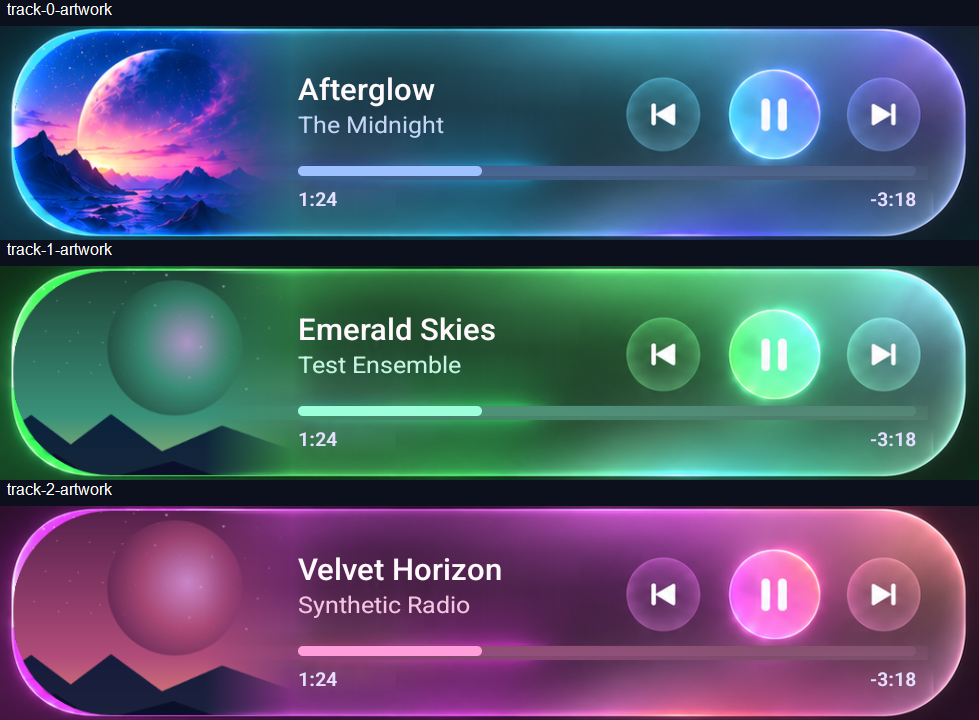
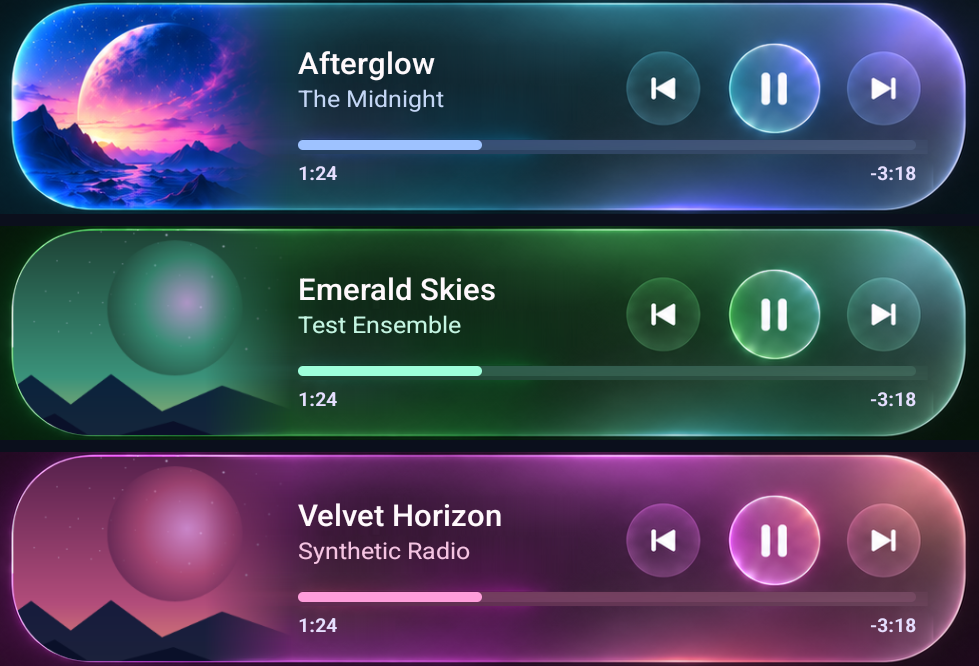
Fill artwork to the glass rim and refresh verified README captures

diff --git a/MediaWidget/app/src/main/java/io/github/mutebutton/musicwidget/V5Artwork.kt b/MediaWidget/app/src/main/java/io/github/mutebutton/musicwidget/V5Artwork.kt
@@ -239,7 +239,9 @@ internal object V5Artwork {
             })
         }
         val paint=Paint(Paint.ANTI_ALIAS_FLAG or Paint.FILTER_BITMAP_FLAG).apply { this.shader=shader }
-        canvas.clipPath(Path().apply { addRoundRect(RectF(14f,5f,1015f,220f),102f,102f,Path.Direction.CW) })
+        // The raster rim has 80px corners, not a capsule's half-height radius.
+        // Keep only the thin rim inset; a larger radius exposes a crescent of glass.
+        canvas.clipPath(Path().apply { addRoundRect(RectF(14f,5f,1015f,220f),80f,80f,Path.Direction.CW) })
         canvas.drawRect(0f,0f,307f,225f,paint)
         paint.shader=LinearGradient(215f,0f,307f,0f,Color.WHITE,Color.TRANSPARENT,Shader.TileMode.CLAMP)
         paint.xfermode=PorterDuffXfermode(PorterDuff.Mode.DST_IN)

diff --git a/MediaWidget/tools/ARTWORK_RIM_ACCEPTANCE.md b/MediaWidget/tools/ARTWORK_RIM_ACCEPTANCE.md
@@ -1,0 +1,26 @@
+# Artwork reaches the rim
+
+Verified October 24, 2026 on the API 36.1 emulator. The artwork mask previously used a 102px corner radius inside a raster rim with tighter corners, exposing crescent-shaped areas of glass above and below the cover. The live artwork now uses an 80px radius with the existing thin rim inset. Image cropping, right-side fade, palette selection, controls and layout are unchanged. The same correction applies to the missing-cover placeholder.
+
+## Visual evidence
+
+`Capture-ArtworkShowcase.ps1` captures the actual signed app using the separate test player, fixed playback position and Artwork glass mode. It crops the widget from each screenshot and stacks the three unretouched crops. No artwork or rim is painted into the screenshot. The resulting image replaces `docs/images/artwork-glass-showcase.png`, already referenced by the README.
+
+The blue, green and pink captures were visually reviewed before and after. Artwork now fills both left corners up to the thin rim; the inset crescent is gone. At 979x214 per card, approximately 2,180 pixels change in the left corner regions. Outside those regions the blue card is identical; the green/pink cards have respectively 15/12 changed pixels with at most one RGB level of difference from emulator rendering.
+
+Evidence remains local under `artifacts/rim-fix/`: `before/`, `after/`, `pixel-comparison.json`, `acceptance/`, and `release/`. Emulator startup initially failed and then encountered a System UI ANR; those attempts were rejected by the capture checks. Accepted captures were taken after the emulator recovered. No application-code change was made for those infrastructure issues.
+
+## Build and regression
+
+- Signed APK and AAB built successfully; bundle validation and APK signature verification passed.
+- 11 JVM tests passed.
+- All 36 signed-release integration assertions passed against the exact corrected APK, covering playback/progress, transport actions, session changes, navigation, both color modes, missing artwork and permission/screen recovery.
+- All three track captures verified their current media title in the live widget before capture.
+- Repository hygiene passed; signing secrets and raw emulator evidence remain untracked.
+
+| Corrected artifact under artifacts/rim-fix/release/ | SHA-256 |
+| --- | --- |
[2 lines of base64/hex data omitted]
+
+The existing neutral signing key is retained; this APK installs over the preceding neutral-signed 1.1 build. The older [release](NEUTRAL_RELEASE_ACCEPTANCE.md) and [background](BACKGROUND_ACCEPTANCE.md) reports remain evidence for their stated prior APK hash. Their entire suites are not relabeled as runs of this corrected binary; the 36-check integration rerun above is the fresh verification for this rendering-only change.

diff --git a/MediaWidget/tools/NEUTRAL_RELEASE_ACCEPTANCE.md b/MediaWidget/tools/NEUTRAL_RELEASE_ACCEPTANCE.md
@@ -1,5 +1,7 @@
 # Neutral signing release acceptance
 
+A subsequent [artwork rim correction](ARTWORK_RIM_ACCEPTANCE.md) provides an updated signed APK and refreshed README images. This report retains the original artifact hashes and results.
+
 Music Widget 1.1 (version code 2), `io.github.mutebutton.musicwidget`, October 23, 2026. Production code is unchanged from the public-identity build; this build replaces its prototype signing certificate with the owner-approved neutral MuteButton identity.
 
 ## Deliverables
